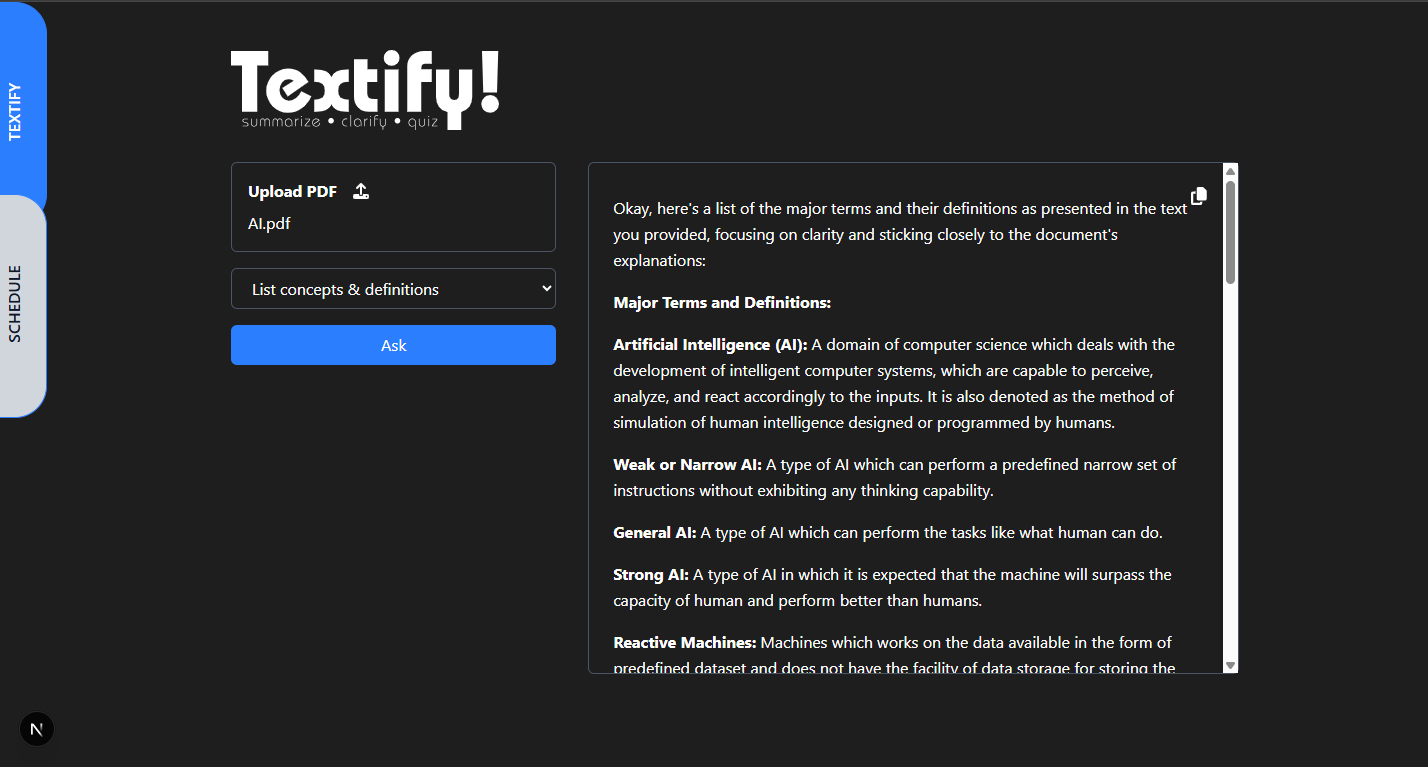
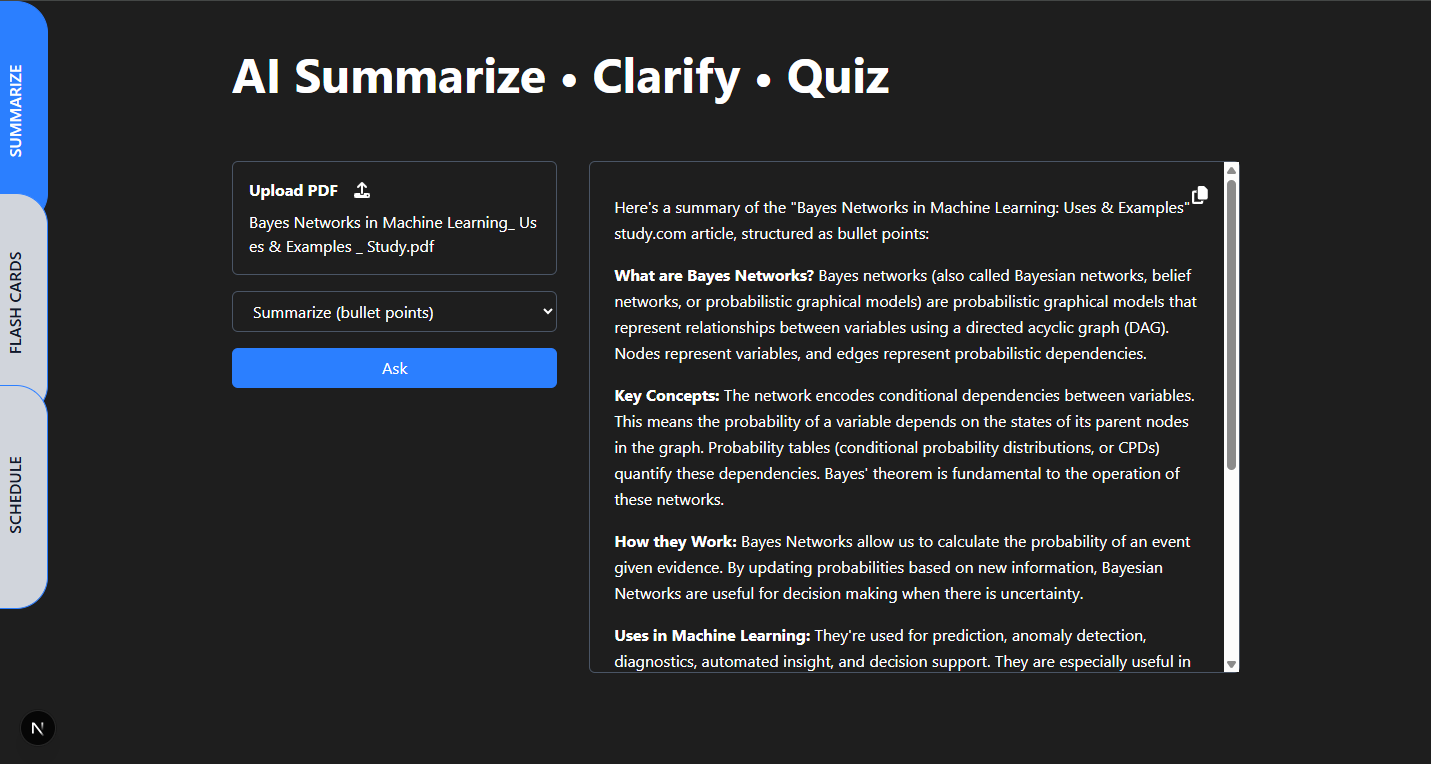
updated readme file

diff --git a/frontend/app/page.tsx b/frontend/app/page.tsx
@@ -83,13 +83,8 @@ export default function Home() {
       <Navigation />
       <div className="w-full h-full p-8 ps-16 pt-12 box-border">
         <div className="w-9/12 mx-auto">
-          <h1 className="w-2/3 h-[5rem] align-left relative mb-8">
-            <Image
-              src="/textify-logo2.svg"
-              fill
-              className="object-contain object-left"
-              alt="Textify"
-            />
+          <h1 className="w-2/3 h-[5rem] text-5xl font-bold align-left relative mb-8">
+            AI Summarize &bull; Clarify &bull; Quiz
           </h1>
         </div>
         <div className="flex flex-col md:flex-row w-full md:w-9/12 items-start justify-start gap-8 h-[32rem] mx-auto">

diff --git a/frontend/app/schedule/page.tsx b/frontend/app/schedule/page.tsx
@@ -48,13 +48,8 @@ export default function Schedule() {
     <div className="w-full flex">
       <Navigation />
       <div className="w-1/2 p-8 mx-auto">
-        <h1 className="text-2xl font-bold mb-8 w-full h-22 relative">
-          <Image
-            src="/calendar-assistant2.svg"
-            alt="Google AI Assistant"
-            fill
-            className="object-contain object-center"
-          />
+        <h1 className="mb-8 w-full py-4 text-4xl font-bold relative">
+          AI-Assistant for Google Calendar
         </h1>
         <form onSubmit={handleSubmit} className="w-full flex flex-col gap-6">
           <textarea
